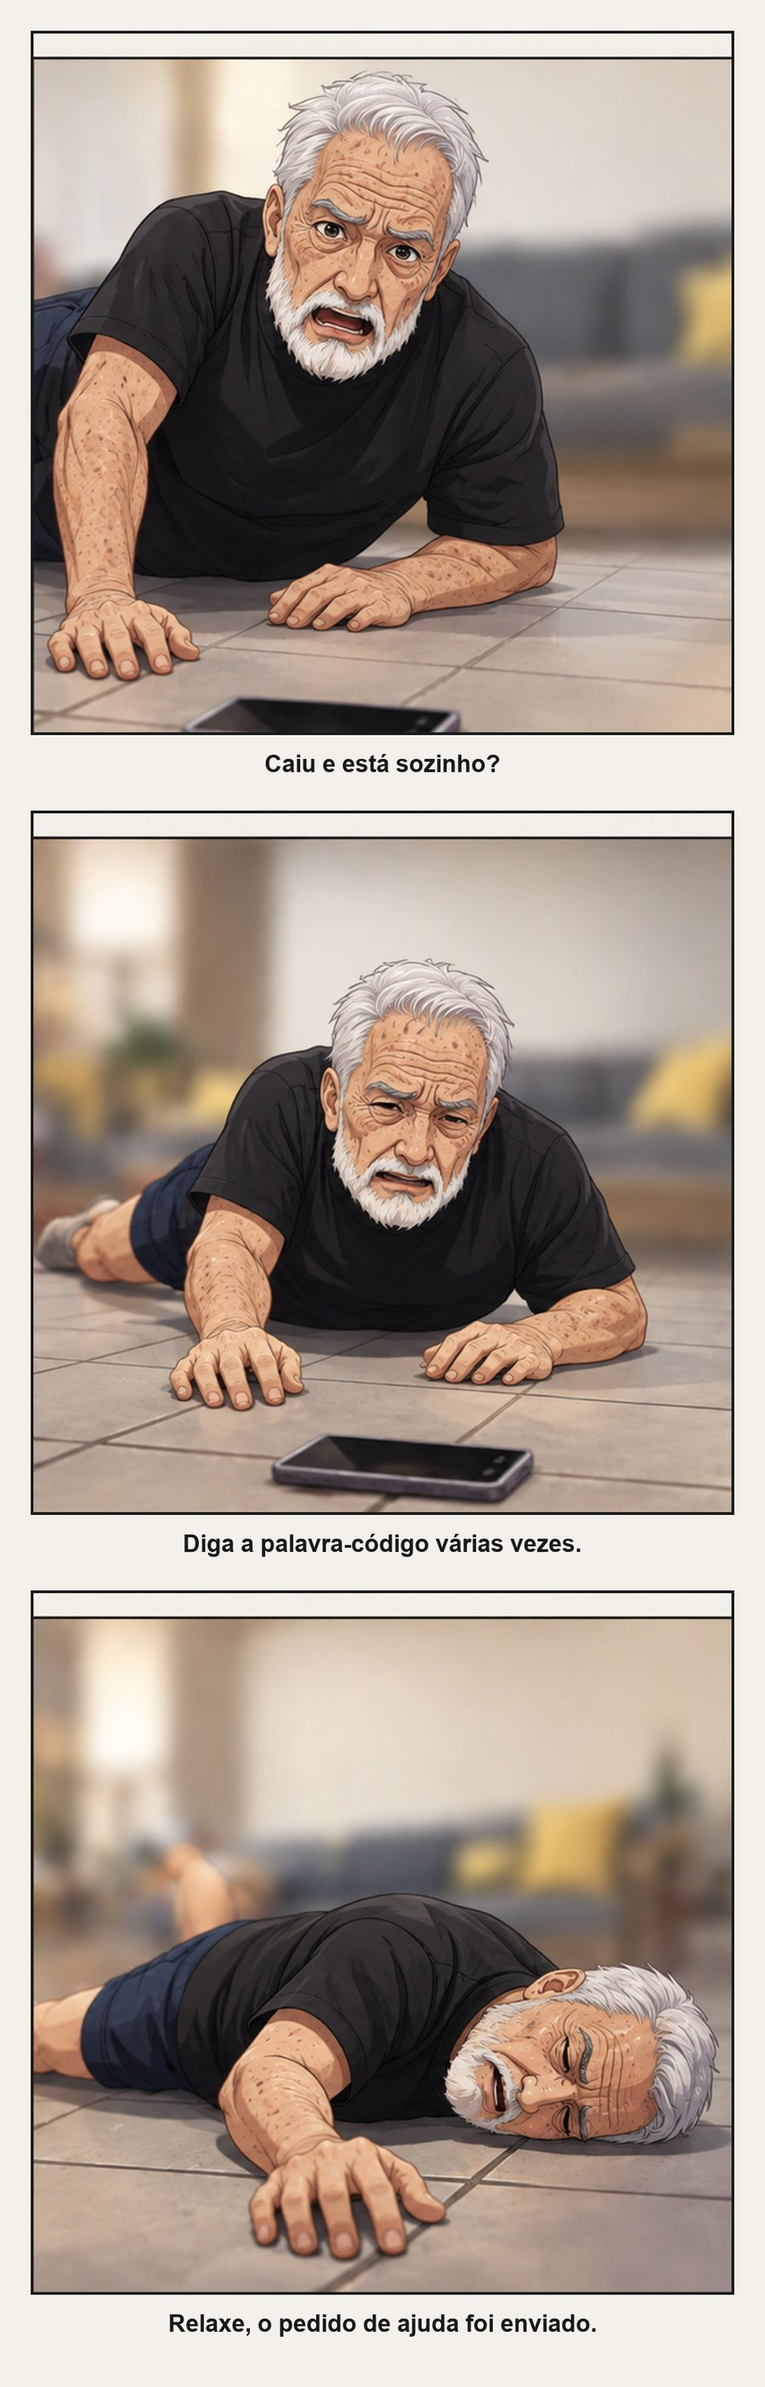
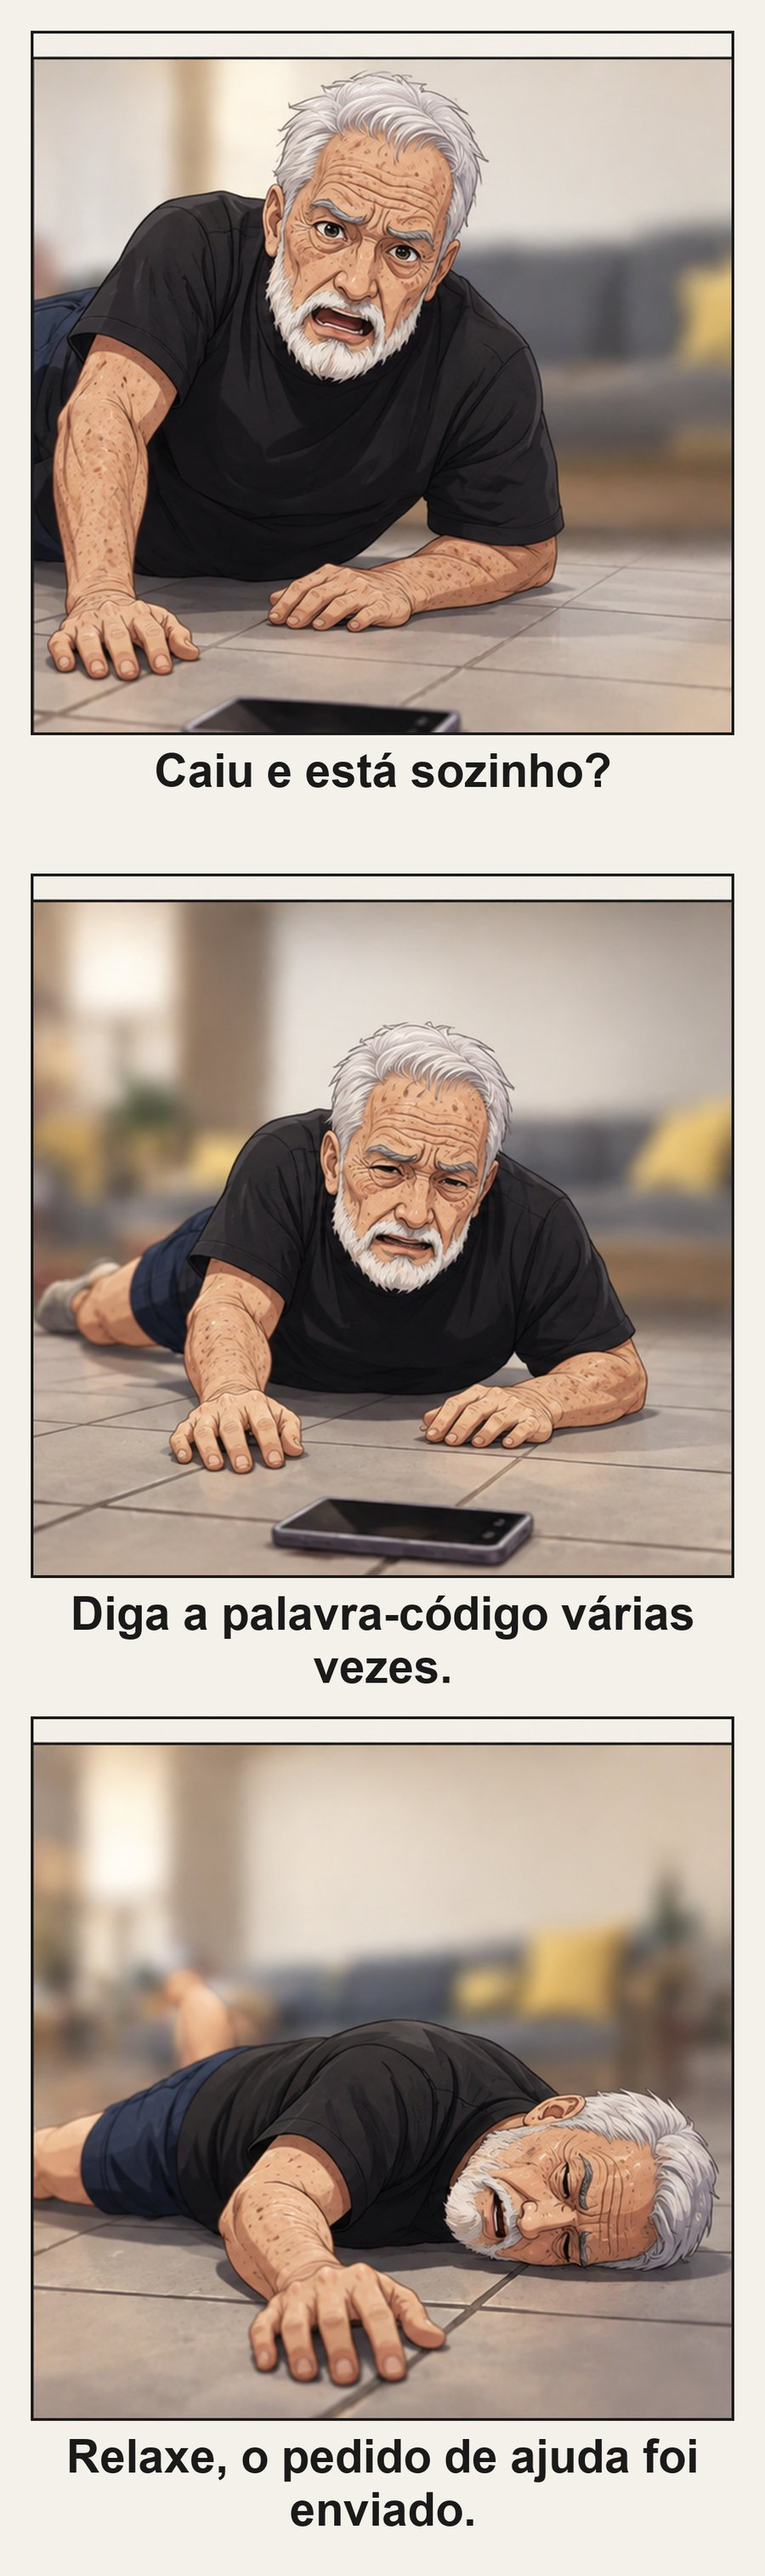
site: legendas das tiras ~2x maiores (60+ acharam pequenas) + ?v=3
Fonte ~66px com quebra de linha; regenera os 6 arquivos (h + v).

diff --git a/site/index.html b/site/index.html
@@ -459,18 +459,18 @@ footer{padding:70px 0 calc(45px + env(safe-area-inset-bottom));text-align:center
       Algo acontece &rarr; um gesto discreto &rarr; a rede de apoio recebe o pedido de ajuda, com &aacute;udio e localiza&ccedil;&atilde;o.
     </p>
     <picture>
-      <source media="(max-width: 640px)" srcset="tira-queda-v.jpg?v=2">
-      <img src="tira-queda.jpg?v=2" alt="Uma queda em casa: a pessoa diz a palavra-código e o pedido de ajuda é enviado"
+      <source media="(max-width: 640px)" srcset="tira-queda-v.jpg?v=3">
+      <img src="tira-queda.jpg?v=3" alt="Uma queda em casa: a pessoa diz a palavra-código e o pedido de ajuda é enviado"
            style="width:80%;height:auto;border-radius:12px;display:block;margin:0 auto 20px;">
     </picture>
     <picture>
-      <source media="(max-width: 640px)" srcset="tira-chacoalhar-v.jpg?v=2">
-      <img src="tira-chacoalhar.jpg?v=2" alt="Aflição no sofá: a pessoa chacoalha o celular e o pedido de ajuda é enviado"
+      <source media="(max-width: 640px)" srcset="tira-chacoalhar-v.jpg?v=3">
+      <img src="tira-chacoalhar.jpg?v=3" alt="Aflição no sofá: a pessoa chacoalha o celular e o pedido de ajuda é enviado"
            style="width:80%;height:auto;border-radius:12px;display:block;margin:0 auto 20px;">
     </picture>
     <picture>
-      <source media="(max-width: 640px)" srcset="tira-rua-v.jpg?v=2">
-      <img src="tira-rua.jpg?v=2" alt="Na rua, sendo seguida: ela aperta o botão PEDIR AJUDA e a rede de apoio recebe o alerta com a localização"
+      <source media="(max-width: 640px)" srcset="tira-rua-v.jpg?v=3">
+      <img src="tira-rua.jpg?v=3" alt="Na rua, sendo seguida: ela aperta o botão PEDIR AJUDA e a rede de apoio recebe o alerta com a localização"
            style="width:80%;height:auto;border-radius:12px;display:block;margin:0 auto;">
     </picture>
   </div>
